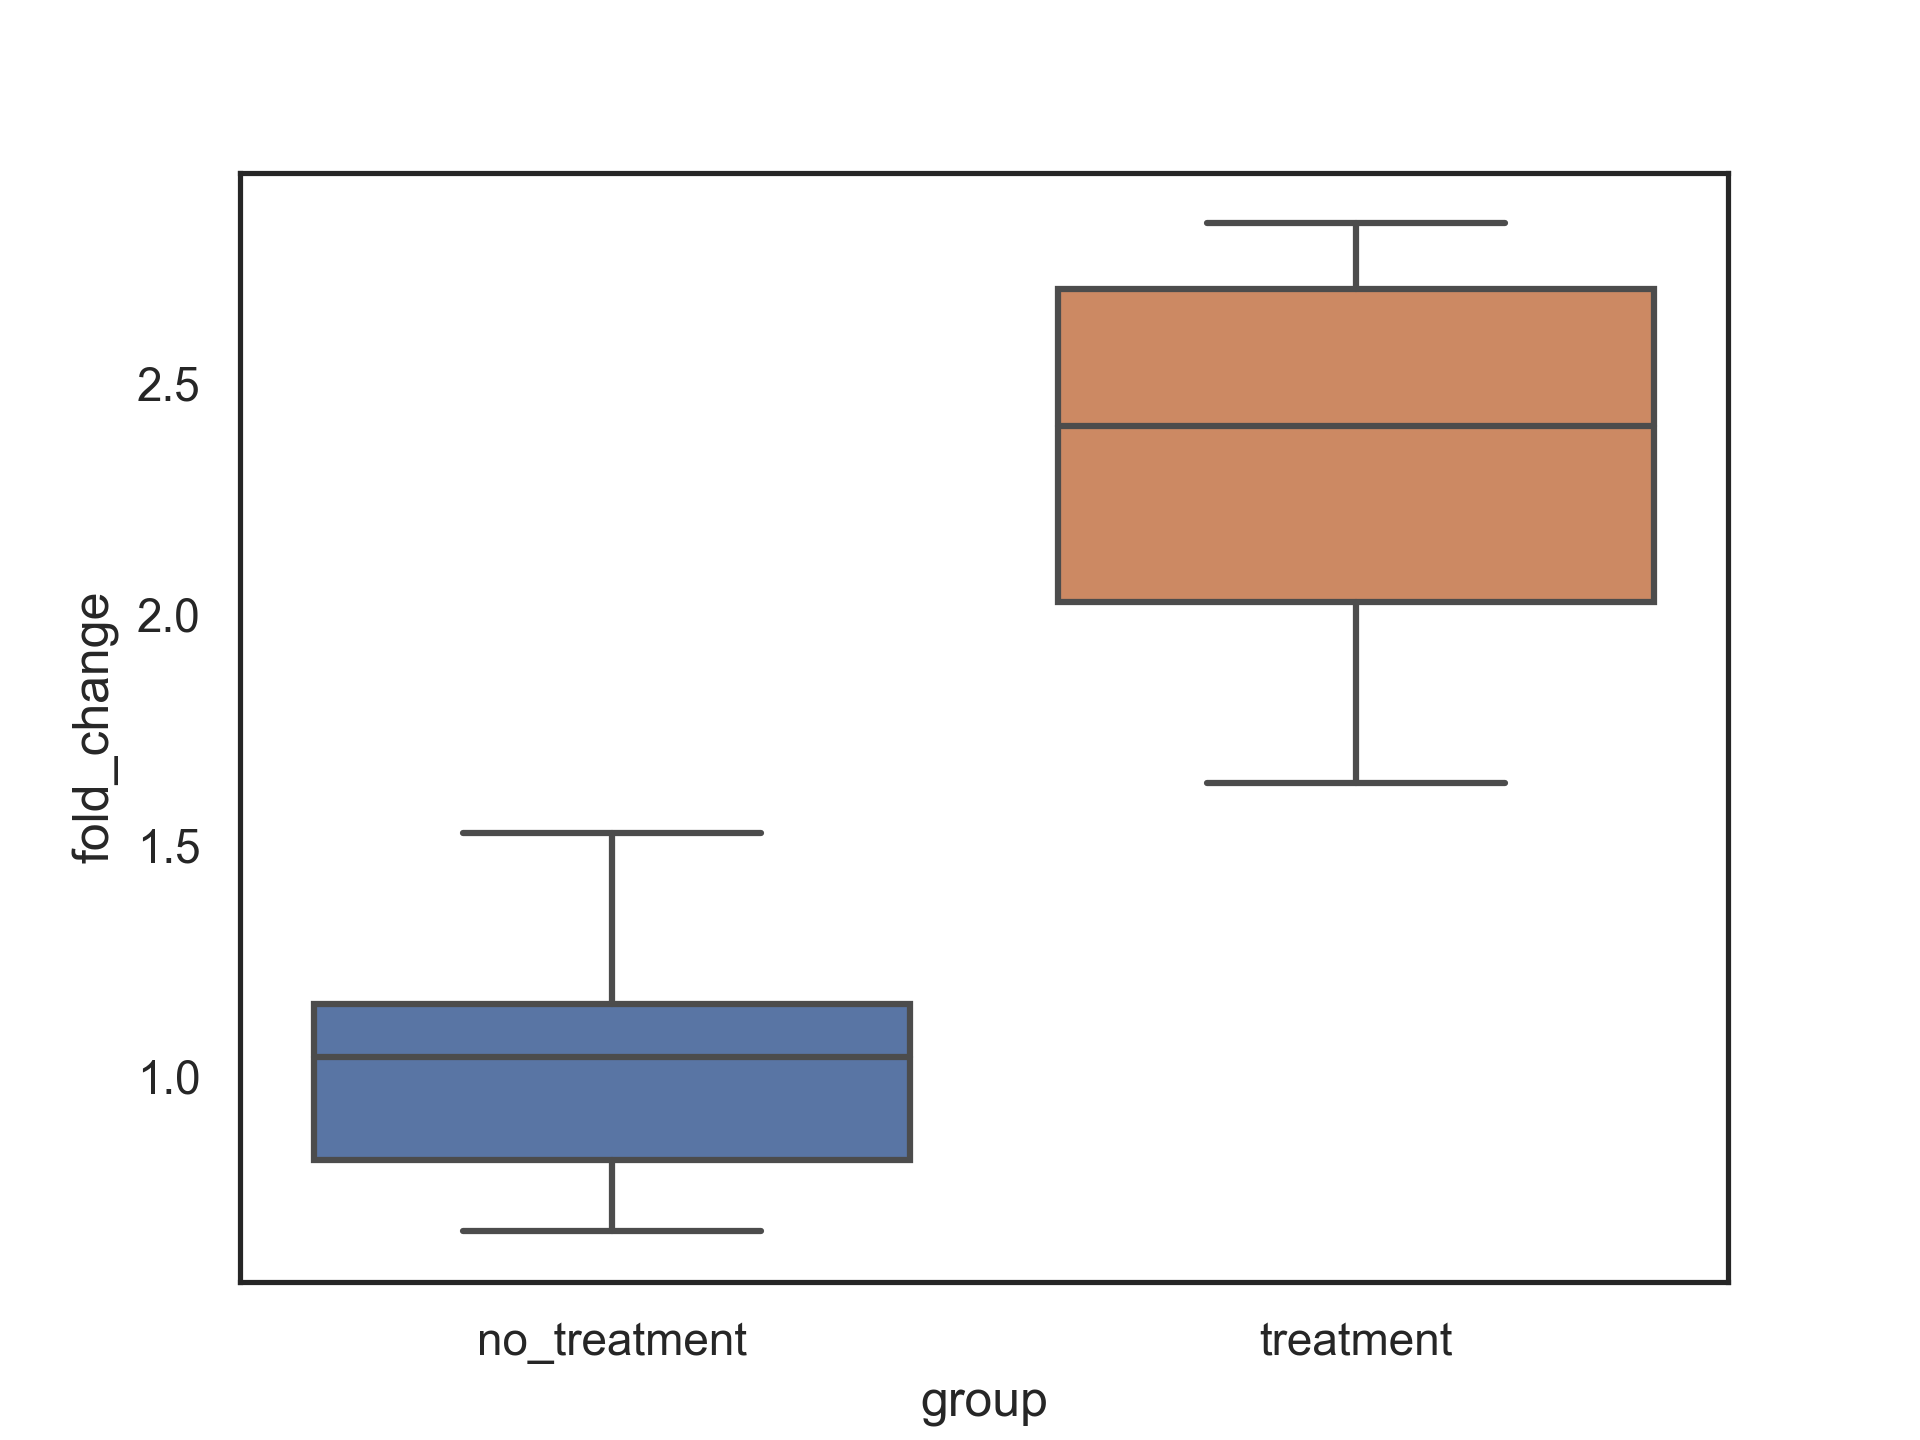
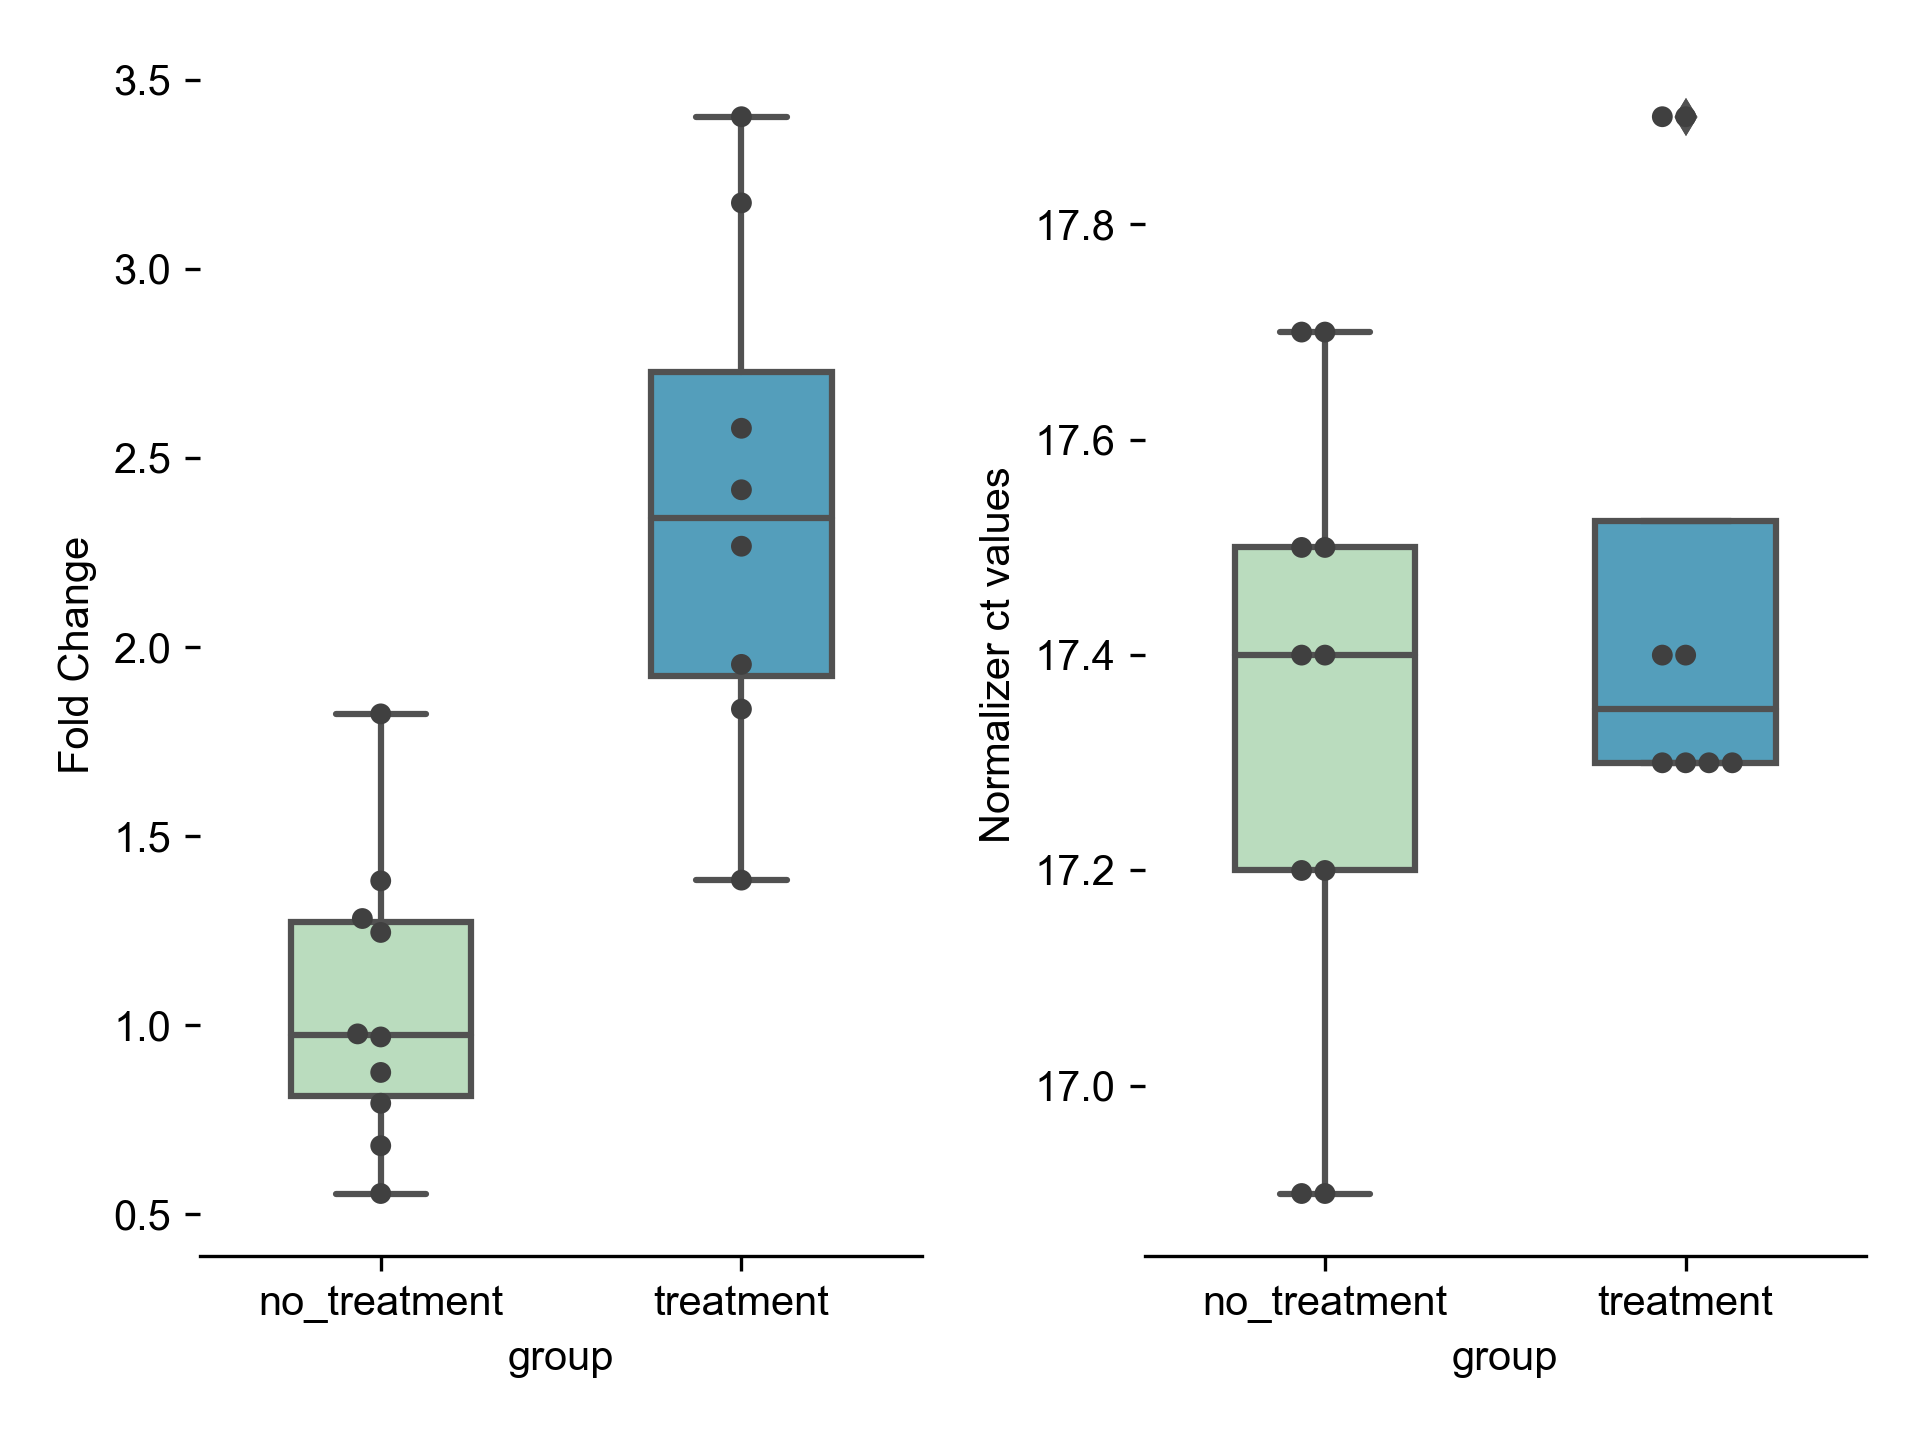
add normalizer figure

diff --git a/src/pycr/PcrParser.py b/src/pycr/PcrParser.py
@@ -68,12 +68,34 @@ class PcrParser(object):
 
 
     def visualize_rt(self):
-        """WIP add visualization method"""
+        """Visualization fold change in target gene expression"""
 
         output = self.output_path +  ".png"
         logger.info(f"Saving output figure: {output}")
+
+        f, axes = plt.subplots(1, 2)
         sns.set(style = "white")
+
         sns.boxplot(x = "group",
-                    y =  "fold_change",
-                    data = self.rt_table)
-        plt.savefig(output, dpi=300)
+              y =  "fold_change",
+              data = self.rt_table,
+              ax=axes[0], width=.5, palette="GnBu")
+        sns.boxplot(x = "group",
+              y =  "normalizer",
+              data = self.rt_table,
+              ax=axes[1], width=.5, palette="GnBu")
+
+        sns.swarmplot(x = "group",
+              y =  "fold_change",
+              data = self.rt_table,
+              ax=axes[0], color=".25")
+        sns.swarmplot(x = "group",
+              y =  "normalizer",
+              data = self.rt_table,
+           ax=axes[1], color=".25")
+
+        plt.tight_layout()
+        sns.despine(left=True)
+        axes[0].set_ylabel('Fold Change')
+        axes[1].set_ylabel('Normalizer ct values')
+        f.savefig(output, dpi=300)
